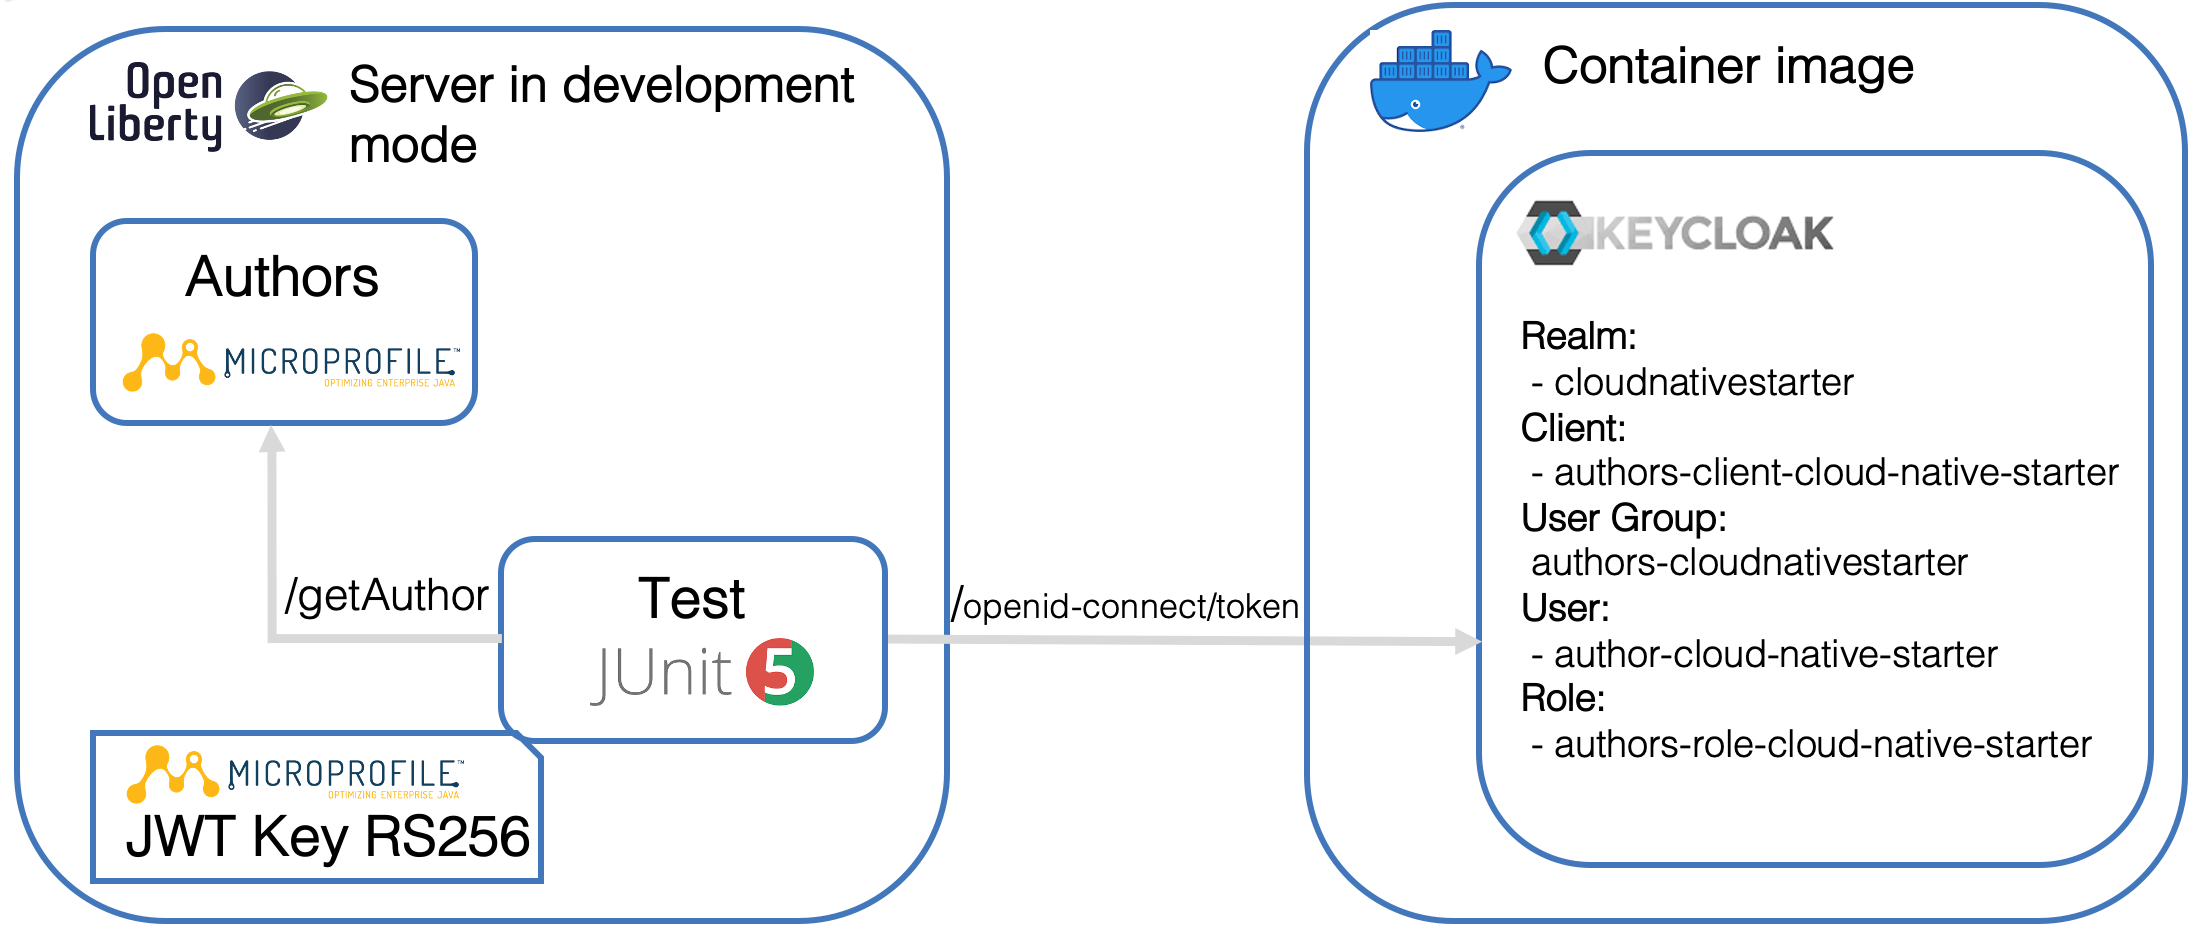
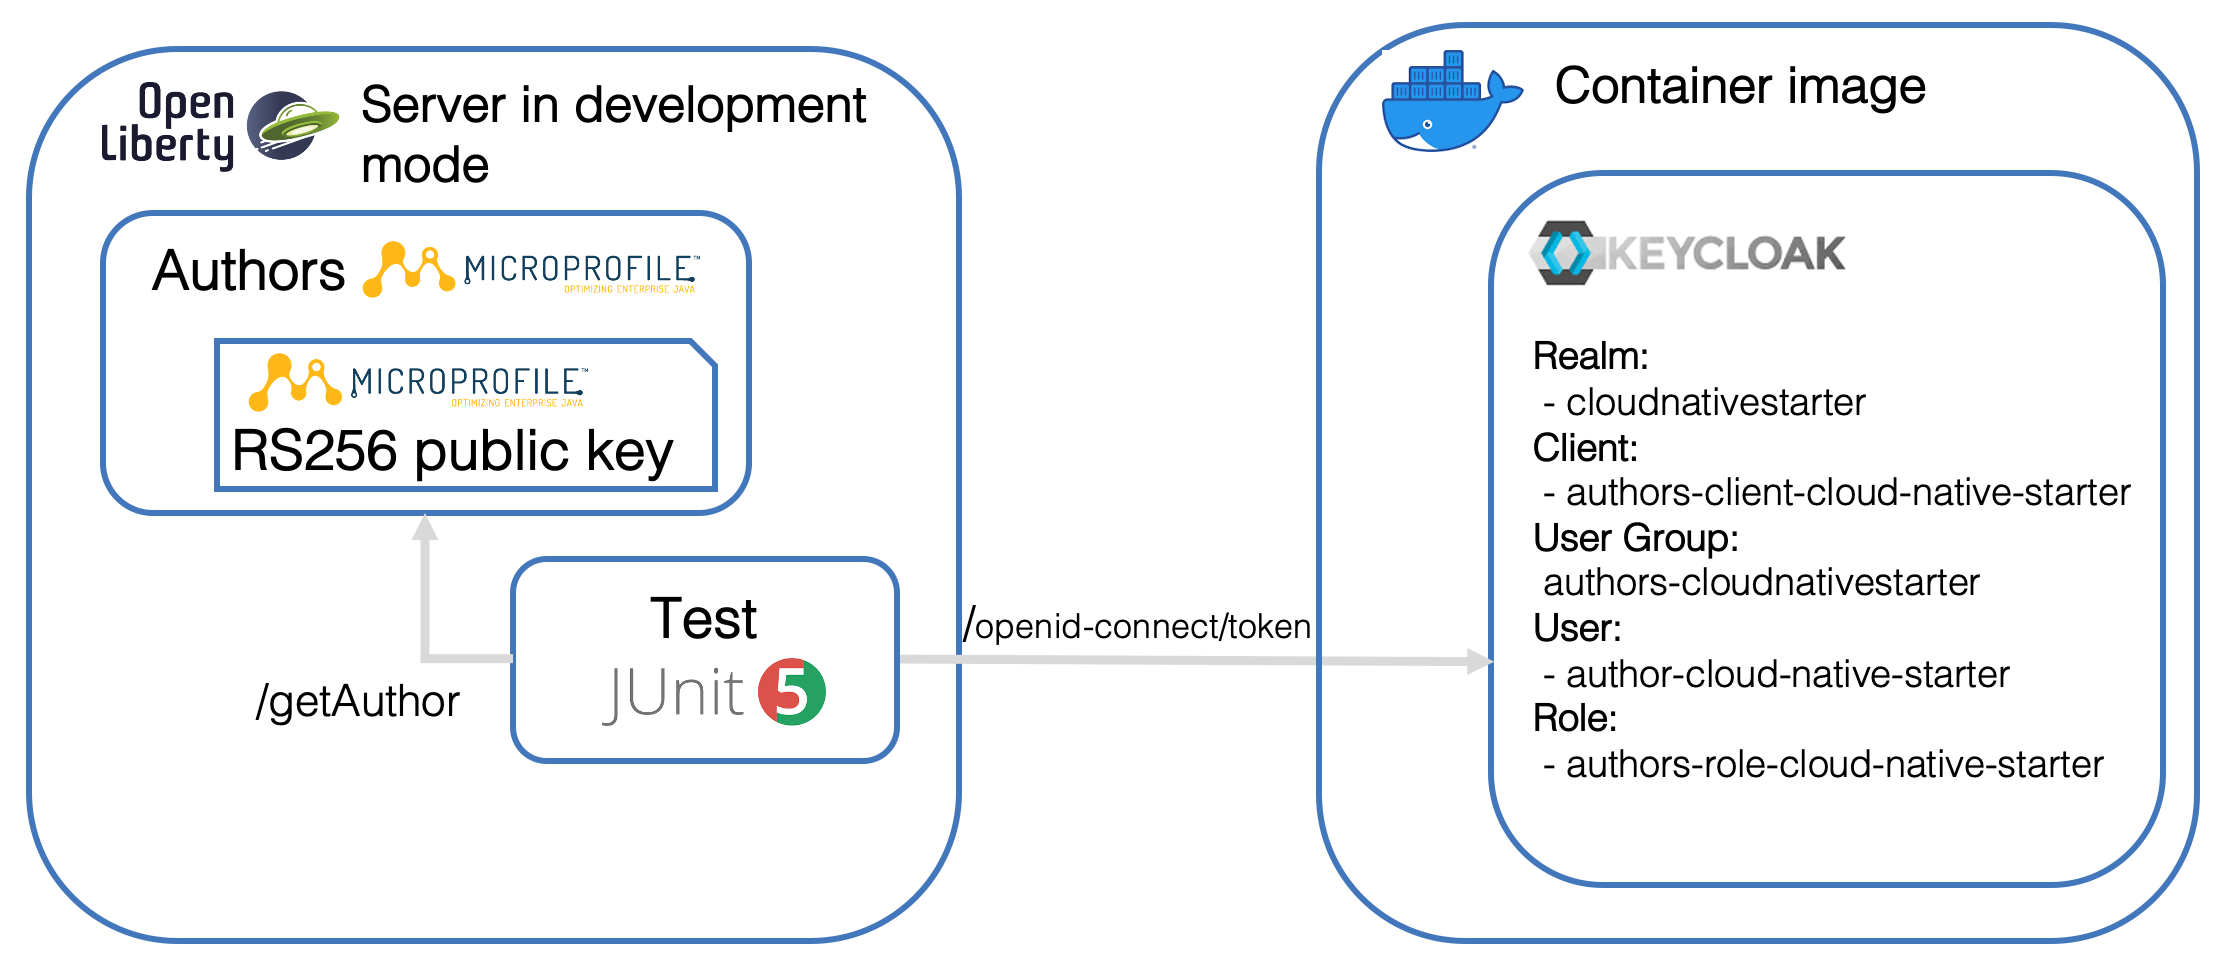
update

Changed region(s): [[0.0, 0.0, 0.4331, 0.9893], [0.4022, 0.0, 1.0, 0.9893]]

diff --git a/workshop/README.md b/workshop/README.md
@@ -17,7 +17,7 @@ The Microservice runs on [OpenLiberty](https://openliberty.io/) and uses [MicroP
 The `Authors` Microservice application supports a protected login with a JWT and the specific REST call `getAuthors` is protected by a specific user role. The image below contains a simplified architecture overview of the example which runs on the local machine, here you see:
 
 * The `JUnit` test and Authors Microservice are running on a `OpenLiberty` server
-* The needed `JWT` Key is saved on the OpenLiberty server in a MicroProfile configuration
+* The needed `JWT` Key is saved on the OpenLiberty server in the `Authors` using a Microservice  [MicroProfile configuration](https://www.eclipse.org/community/eclipse_newsletter/2017/september/article3.php)
 * The `JUnit` test requests a `bearer token` to access the `Authors` service
 * The major configuration information inside `Keycloak`
 
@@ -29,8 +29,8 @@ A very simplified overview of the test execution to access `Authors` Microservic
   2. Request a bearer token from `Keycloak` using a REST Endpoint (http://localhost:8282/auth/realms/protocol/openid-connect/token). The request contains the needed Keycloak data for the authorization as a parameters to get the `bearer token`.That `bearer token` does contain the `Java Web Token`, which is protected with the `RS256 (RSA Signature with SHA-256)`. `RS256` is a [JWT](https://en.wikipedia.org/wiki/JSON_Web_Token) signing algorithm. 
   3. Proceeding with the test by invoking the private operation `getAuthorAuthorized`.
   4. Now the `Authors` REST Endpoint (http://localhost:3000/api/v1/getAuthor) is invoked using the bearer token we got from Keycloak, which contains the [JWT](https://en.wikipedia.org/wiki/JSON_Web_Token).
-  5. Verifying the JWT by the `Authors` Microservice application, that will be done automaticly, by using the given `RS256 signed Key` for the JWT in our Microservice application on the `OpenLiberty` server. When the provided Key is validated, the JWT can be used to access the REST Endpoint of the Microservice.
-  6. Now the Endpoint validates, does the `JavaWebToken contain the right role to access the information?
+  5. Verifying the JWT by the `Authors` Microservice application, that will be done automaticly, by using the given `RS256 signed Key` for the JWT in our Microservice application on the `OpenLiberty` server. When the provided Key is validated, the JWT can be used to access the REST Endpoint of the Authors Microservice.
+  6. Now the Endpoint validates, does the `JavaWebToken` contain the right role to access the information?
   7. Then the response data data will be compared with the expected value.
 
 ![](../images/uml-sequence-getAuthor.png)

diff --git a/workshop/setup-02/README.md b/workshop/setup-02/README.md
@@ -2,7 +2,7 @@
 
 ### Overview
 
-We need to verify following classes to for the usage of MicroProfile:
+We need to verify following relevant classes to for the usage of JWT with MicroProfile:
 
 * `AuthorsApplication` class
 * `GetAuthor` class
@@ -26,7 +26,7 @@ The simplified classdiagram shows an overview of classes of our project, for the
 
 ### Step 1: Verify the modifications in the Authors Microservice
 
-With `org.eclipse.microprofile.auth.LoginConfig` and `@LoginConfig(authMethod = "MP-JWT")` we add the JWT authenication to the RESTful application and with [`javax.annotation.security.DeclareRoles`](https://docs.oracle.com/cd/E19798-01/821-1841/gjgcq/index.html) and @DeclareRoles({"authors-role-cloud-native-starter"}) we define the roles, which can be used in the Microservice application to enable protection.
+With [`org.eclipse.microprofile.auth.LoginConfig`](https://www.eclipse.org/community/eclipse_newsletter/2017/september/article3.php) and `@LoginConfig(authMethod = "MP-JWT")` we add the JWT authenication to the RESTful application and with [`javax.annotation.security.DeclareRoles`](https://docs.oracle.com/cd/E19798-01/821-1841/gjgcq/index.html) and @DeclareRoles({"authors-role-cloud-native-starter"}) we define the roles, which can be used in the Microservice application to enable protection.
 
 * `AuthorsApplication` class
 
